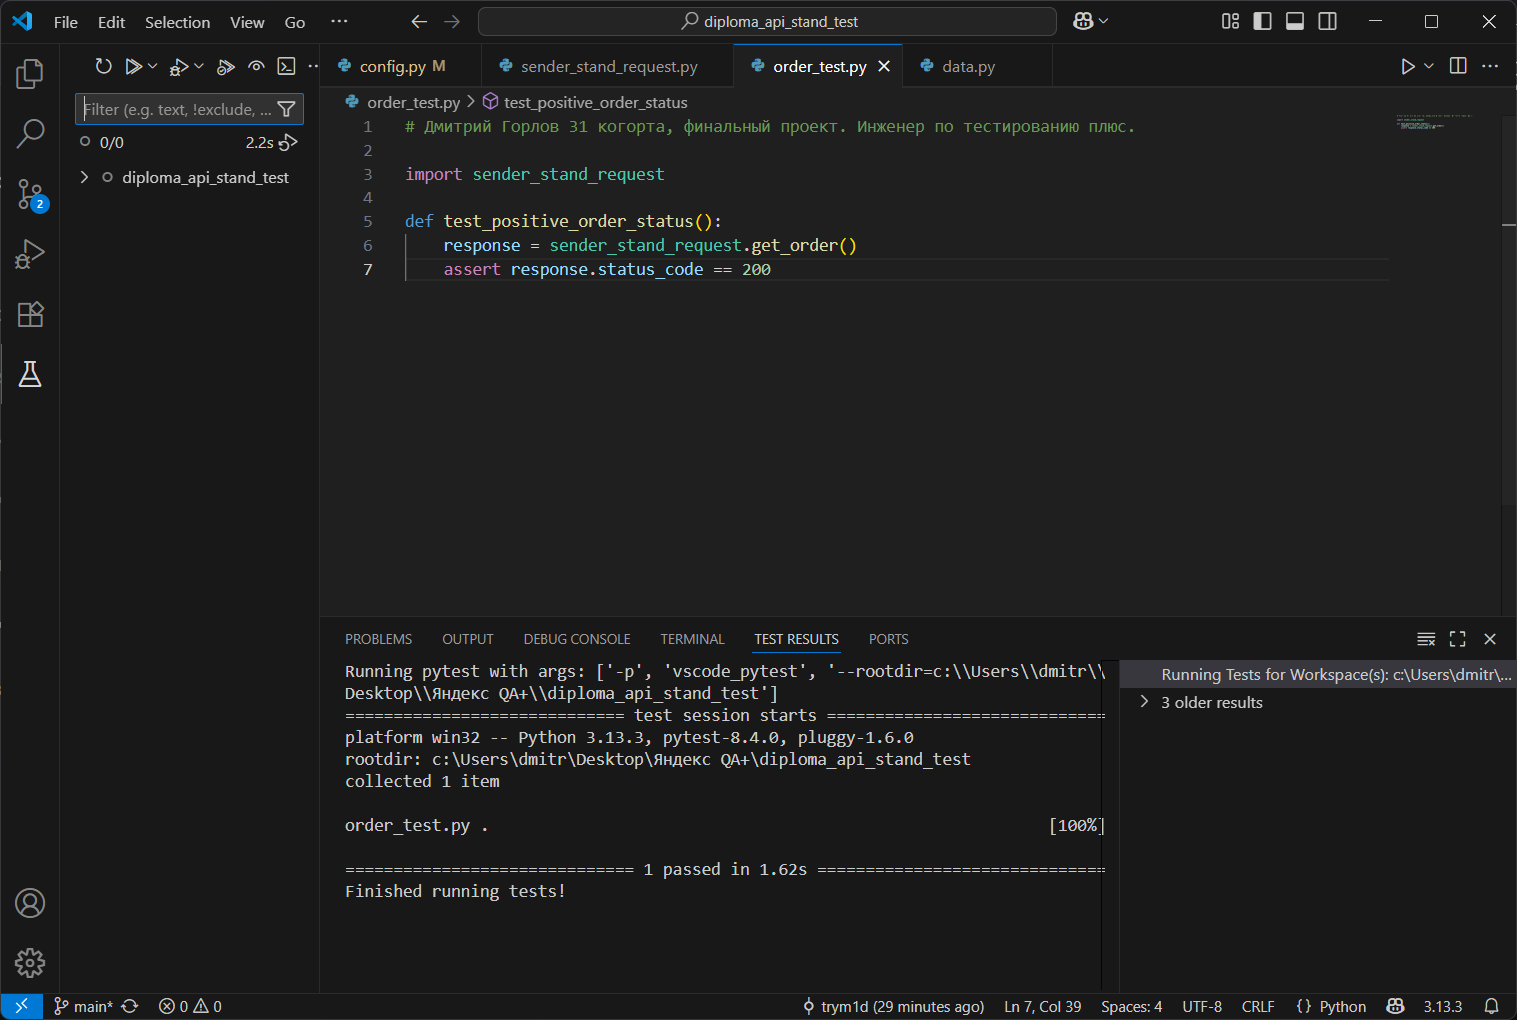
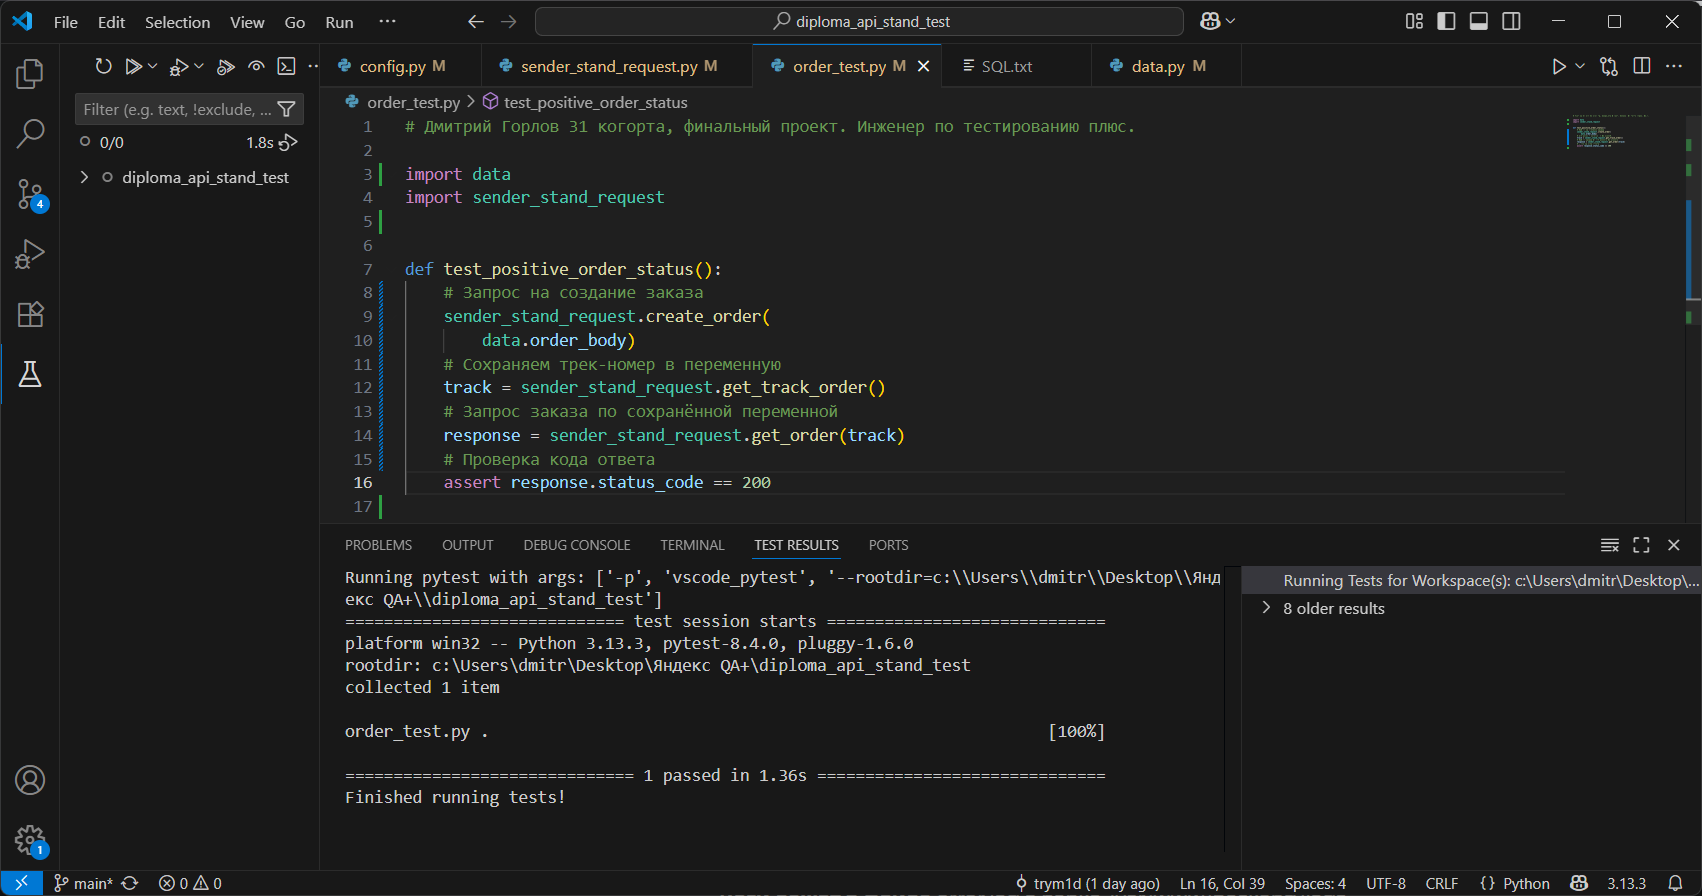
final_changes_5

diff --git a/sender_stand_request.py b/sender_stand_request.py
@@ -3,15 +3,26 @@ import config
 import data
 
 # Создание заказа
+
+
 def create_order(body):
-    return requests.post(config.URL_SERVICE + config.CREATE_ORDER_PATH, json=body, headers=data.headers)
-response = create_order(data.order_body)
+    return requests.post(
+        config.URL_SERVICE +
+        config.CREATE_ORDER_PATH,
+        json=body,
+        headers=data.headers)
 
 # Получаем номер трека созданного заказа
+
+
 def get_track_order():
-    return response.json()["track"]
-track = get_track_order()
+    return create_order(data.order_body).json()["track"]
 
 # Получаем заказ по трекномеру
-def get_order():
-    return requests.get(config.URL_SERVICE + config.GET_ORDER_VIA_TRACK + str(track))
+
+
+def get_order(track):
+    return requests.get(
+        config.URL_SERVICE +
+        config.GET_ORDER_VIA_TRACK +
+        str(track))

diff --git a/order_test.py b/order_test.py
@@ -1,7 +1,16 @@
 # Дмитрий Горлов 31 когорта, финальный проект. Инженер по тестированию плюс.
 
+import data
 import sender_stand_request
 
+
 def test_positive_order_status():
-    response = sender_stand_request.get_order()
+    # Запрос на создание заказа
+    sender_stand_request.create_order(
+        data.order_body)
+    # Сохраняем трек-номер в переменную
+    track = sender_stand_request.get_track_order()
+    # Запрос заказа по сохранённой переменной
+    response = sender_stand_request.get_order(track)
+    # Проверка кода ответа
     assert response.status_code == 200

diff --git a/config.py b/config.py
@@ -1,4 +1,4 @@
-URL_SERVICE = "https://04255776-6e5b-41b0-8451-505bd22ae743.serverhub.praktikum-services.ru"
+URL_SERVICE = "https://2512e501-a1be-4c60-a311-e95eac128503.serverhub.praktikum-services.ru"
 DOC_PATH = "/docs/"
 CREATE_ORDER_PATH = "/api/v1/orders/"
 GET_ORDER_VIA_TRACK = "/v1/orders/track?t="
